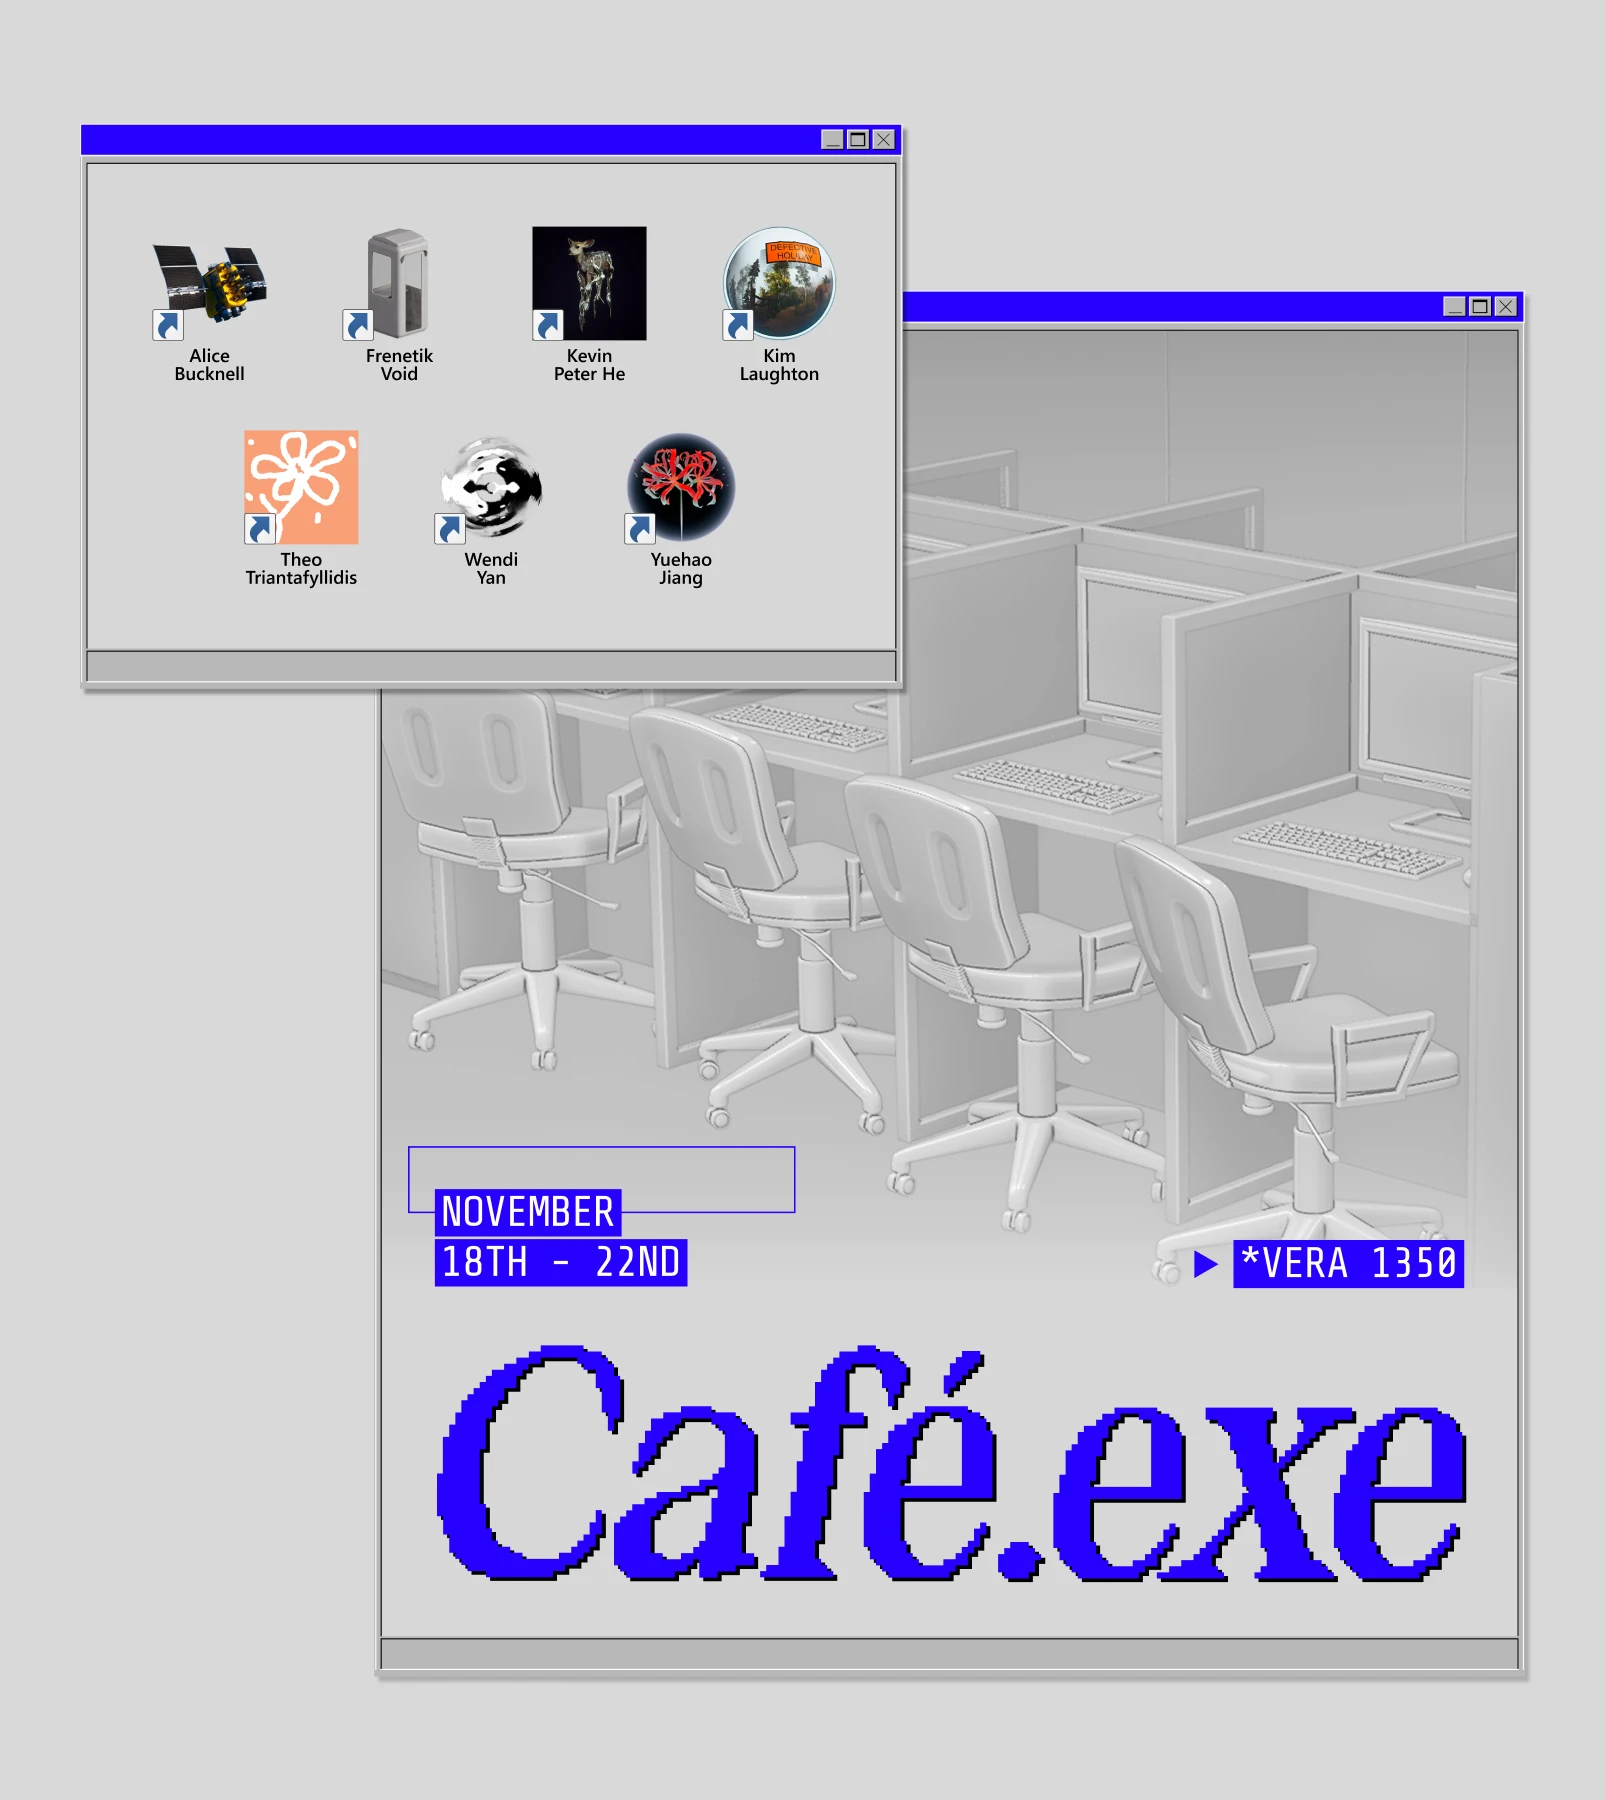
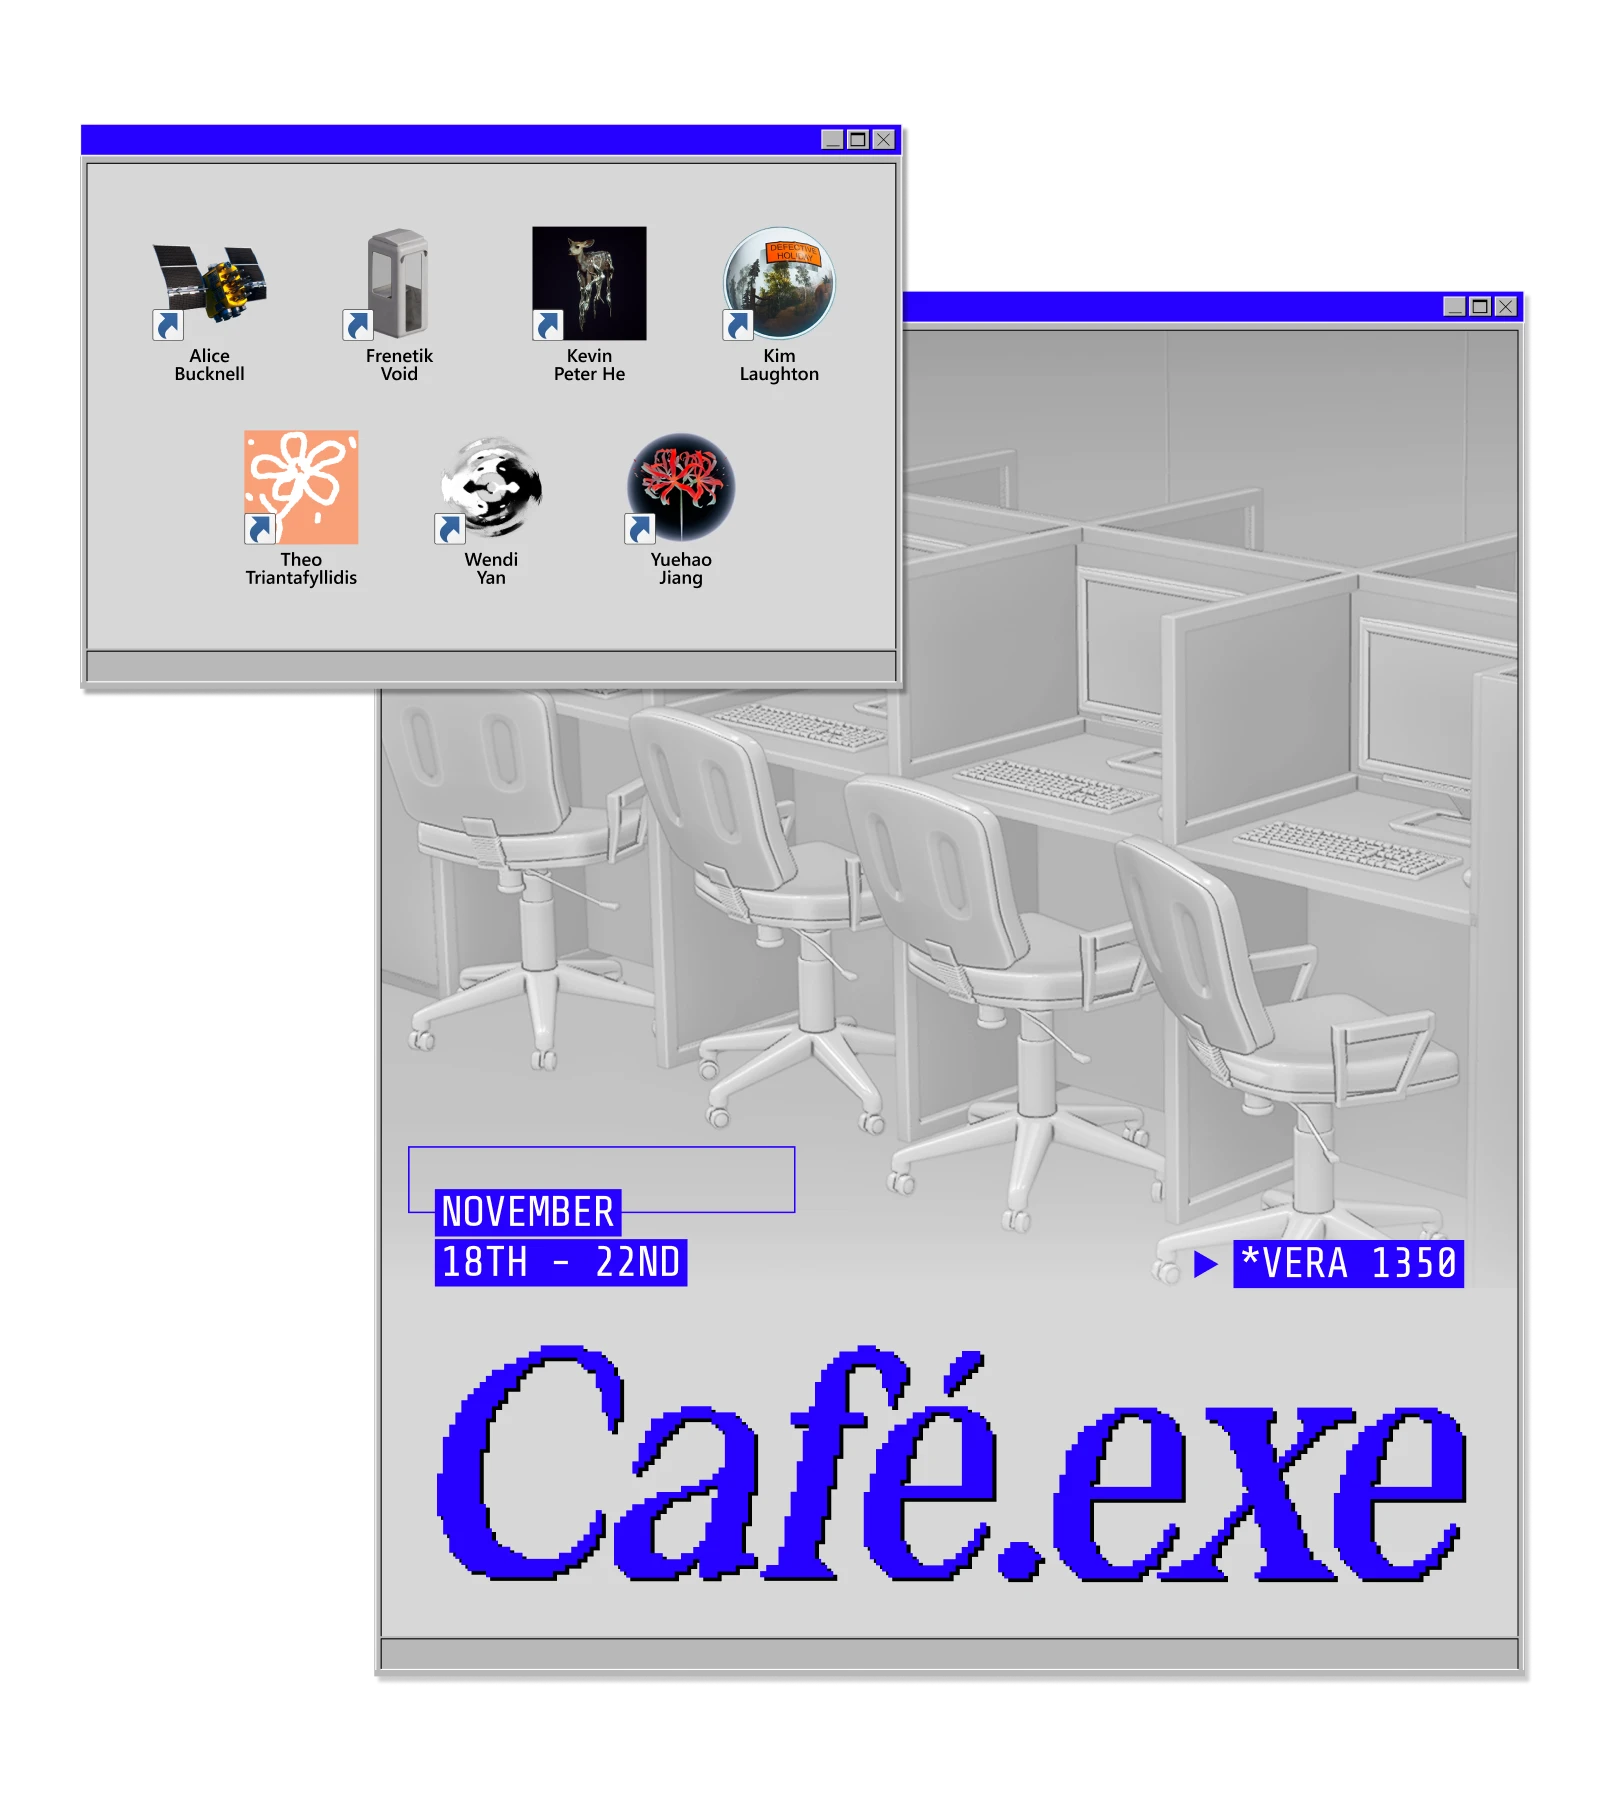
replace #D9D9D9 for #EAEAEA

diff --git a/src/routes/cafe-exe/+page.svelte b/src/routes/cafe-exe/+page.svelte
@@ -133,7 +133,7 @@
 				route="intro"
 				isImageContain={true}
 				isImageLeft={true}
-				colorVariant="#D9D9D9"
+				colorVariant="#EAEAEA"
 				showTitle={false}
 			/>
 			<ChatInterview data={cafeExeChatInterview} />
@@ -153,13 +153,13 @@
 				aboutImage={$preloadedImagesStore[2][0]}
 				route="alice-bucknell"
 				isImageLeft={true}
-				colorVariant="#D9D9D9"
+				colorVariant="#EAEAEA"
 			/>
 			<ProjectAboutDropdown
 				aboutDropdownItems={aliceBucknellDropdownItems}
 				images={$preloadedImagesStore[3]}
 				route="earth-engine"
-				colorVariant="#D9D9D9"
+				colorVariant="#EAEAEA"
 			/>
 		</div>
 
@@ -177,13 +177,13 @@
 				aboutImage={$preloadedImagesStore[4][0]}
 				route="frenetik-void"
 				isImageLeft={false}
-				colorVariant="#D9D9D9"
+				colorVariant="#EAEAEA"
 			/>
 			<ProjectAboutDropdown
 				aboutDropdownItems={frenetikVoidDropdownItems}
 				images={$preloadedImagesStore[5]}
 				route="sereno-de-mi-mente"
-				colorVariant="#D9D9D9"
+				colorVariant="#EAEAEA"
 			/>
 		</div>
 
@@ -201,13 +201,13 @@
 				aboutImage={$preloadedImagesStore[6][0]}
 				route="kevin-peter-he"
 				isImageLeft={true}
-				colorVariant="#D9D9D9"
+				colorVariant="#EAEAEA"
 			/>
 			<ProjectAboutDropdown
 				aboutDropdownItems={kevinPeterHeDropdownItems}
 				images={$preloadedImagesStore[7]}
 				route="passage"
-				colorVariant="#D9D9D9"
+				colorVariant="#EAEAEA"
 			/>
 		</div>
 
@@ -225,13 +225,13 @@
 				aboutImage={$preloadedImagesStore[8][0]}
 				route="kim-laughton"
 				isImageLeft={false}
-				colorVariant="#D9D9D9"
+				colorVariant="#EAEAEA"
 			/>
 			<ProjectAboutDropdown
 				aboutDropdownItems={kimLaughtonDropdownItems}
 				images={$preloadedImagesStore[9]}
 				route="defective-holiday"
-				colorVariant="#D9D9D9"
+				colorVariant="#EAEAEA"
 			/>
 		</div>
 
@@ -249,13 +249,13 @@
 				aboutImage={$preloadedImagesStore[10][0]}
 				route="theo-triantafyllidis"
 				isImageLeft={true}
-				colorVariant="#D9D9D9"
+				colorVariant="#EAEAEA"
 			/>
 			<ProjectAboutDropdown
 				aboutDropdownItems={theoTriantafyllidisDropdownItems}
 				images={$preloadedImagesStore[11]}
 				route="feral-metaverse"
-				colorVariant="#D9D9D9"
+				colorVariant="#EAEAEA"
 			/>
 		</div>
 
@@ -273,13 +273,13 @@
 				aboutImage={$preloadedImagesStore[12][0]}
 				route="wendi-yan"
 				isImageLeft={false}
-				colorVariant="#D9D9D9"
+				colorVariant="#EAEAEA"
 			/>
 			<ProjectAboutDropdown
 				aboutDropdownItems={wendiYanDropdownItems}
 				images={$preloadedImagesStore[13]}
 				route="inner-carbon-classic"
-				colorVariant="#D9D9D9"
+				colorVariant="#EAEAEA"
 			/>
 		</div>
 
@@ -297,13 +297,13 @@
 				aboutImage={$preloadedImagesStore[14][0]}
 				route="yuehao-jiang"
 				isImageLeft={true}
-				colorVariant="#D9D9D9"
+				colorVariant="#EAEAEA"
 			/>
 			<ProjectAboutDropdown
 				aboutDropdownItems={yuehaoJiangDropdownItems}
 				images={$preloadedImagesStore[15]}
 				route="spiderlily"
-				colorVariant="#D9D9D9"
+				colorVariant="#EAEAEA"
 			/>
 		</div>
 

diff --git a/src/lib/elements/About/About.svelte b/src/lib/elements/About/About.svelte
@@ -9,7 +9,7 @@ export let showTitle = true;
 	
 	$: isBlack = colorVariant === EColorVariant.BLACK;
 	$: isCustomColor = typeof colorVariant === 'string' && colorVariant.startsWith('#');
-	$: isLightGray = colorVariant === '#D9D9D9';
+	$: isLightGray = colorVariant === '#EAEAEA';
 	$: backgroundColor = isBlack 
 		? 'bg-color-black' 
 		: isCustomColor 
@@ -17,7 +17,7 @@ export let showTitle = true;
 			: 'bg-color-white';
 	$: backgroundColorStyle = isCustomColor ? `background-color: ${colorVariant};` : '';
 	$: titleClasses = isLightGray 
-		? 'px-2.5 py-[5px] bg-[#2600ff] inline-flex justify-start items-center gap-2.5 text-[#D9D9D9] font-semibold tracking-[0.065rem] uppercase font-neue text-base'
+		? 'px-2.5 py-[5px] bg-[#2600ff] inline-flex justify-start items-center gap-2.5 text-[#EAEAEA] font-semibold tracking-[0.065rem] uppercase font-neue text-base'
 		: 'w-full sm:mb-[20px] mb-0 font-semibold leading-[55px] tracking-[0.065rem] uppercase font-neue text-[40px] sm:text-[3.125rem]';
 </script>
 

diff --git a/src/lib/elements/AudioFilePreview/AudioFilePreview.svelte b/src/lib/elements/AudioFilePreview/AudioFilePreview.svelte
@@ -69,7 +69,7 @@
 			<button
 				on:click={() => handlePreviousTrack(index)}
 				class="{index === 0
-					? 'pointer-events-none bg-[#D9D9D9] border-color-gray-secondary'
+					? 'pointer-events-none bg-[#EAEAEA] border-color-gray-secondary'
 					: ''} w-[1.75rem] h-[1.75rem] rounded-[6.25rem] flex flex-row py-[8px] pl-[6px] pr-[8px] border border-color-black hover:scale-105"
 			>
 				<img
@@ -87,7 +87,7 @@
 			<button
 				on:click={() => handleNextTrack(index)}
 				class="{isLastTrack
-					? 'pointer-events-none bg-[#D9D9D9] border-color-gray-secondary'
+					? 'pointer-events-none bg-[#EAEAEA] border-color-gray-secondary'
 					: ''} w-[1.75rem] h-[1.75rem] rounded-[6.25rem] flex flex-row py-[8px] pr-[6px] pl-[8px] border hover:scale-105 border-color-black"
 			>
 				<img src={isLastTrack ? nextDisabled : nextIcon} alt="next" class="h-full w-full" />

diff --git a/tailwind.config.js b/tailwind.config.js
@@ -52,7 +52,7 @@ export default {
 			'color-gray-secondary': 'rgba(255, 255, 255, 0.60)',
 			'color-gray-background': '#A6A6A6',
 			'color-dark': '#313431',
-			'color-img-bg': '#D9D9D9',
+			'color-img-bg': '#EAEAEA',
 			'color-white': '#F7F5F2',
 			'color-black': '#000000',
 			'color-interview-card': 'rgba(255, 255, 255, 0.40)',
@@ -62,7 +62,7 @@ export default {
 			'color-red': 'red',
 			'color-green': 'green',
 			'color-blue': 'blue',
-			'color-gray-mobile': '#D9D9D9'
+			'color-gray-mobile': '#EAEAEA'
 		},
 		fontFamily: {
 			roboto: ['Roboto-Regular'],
